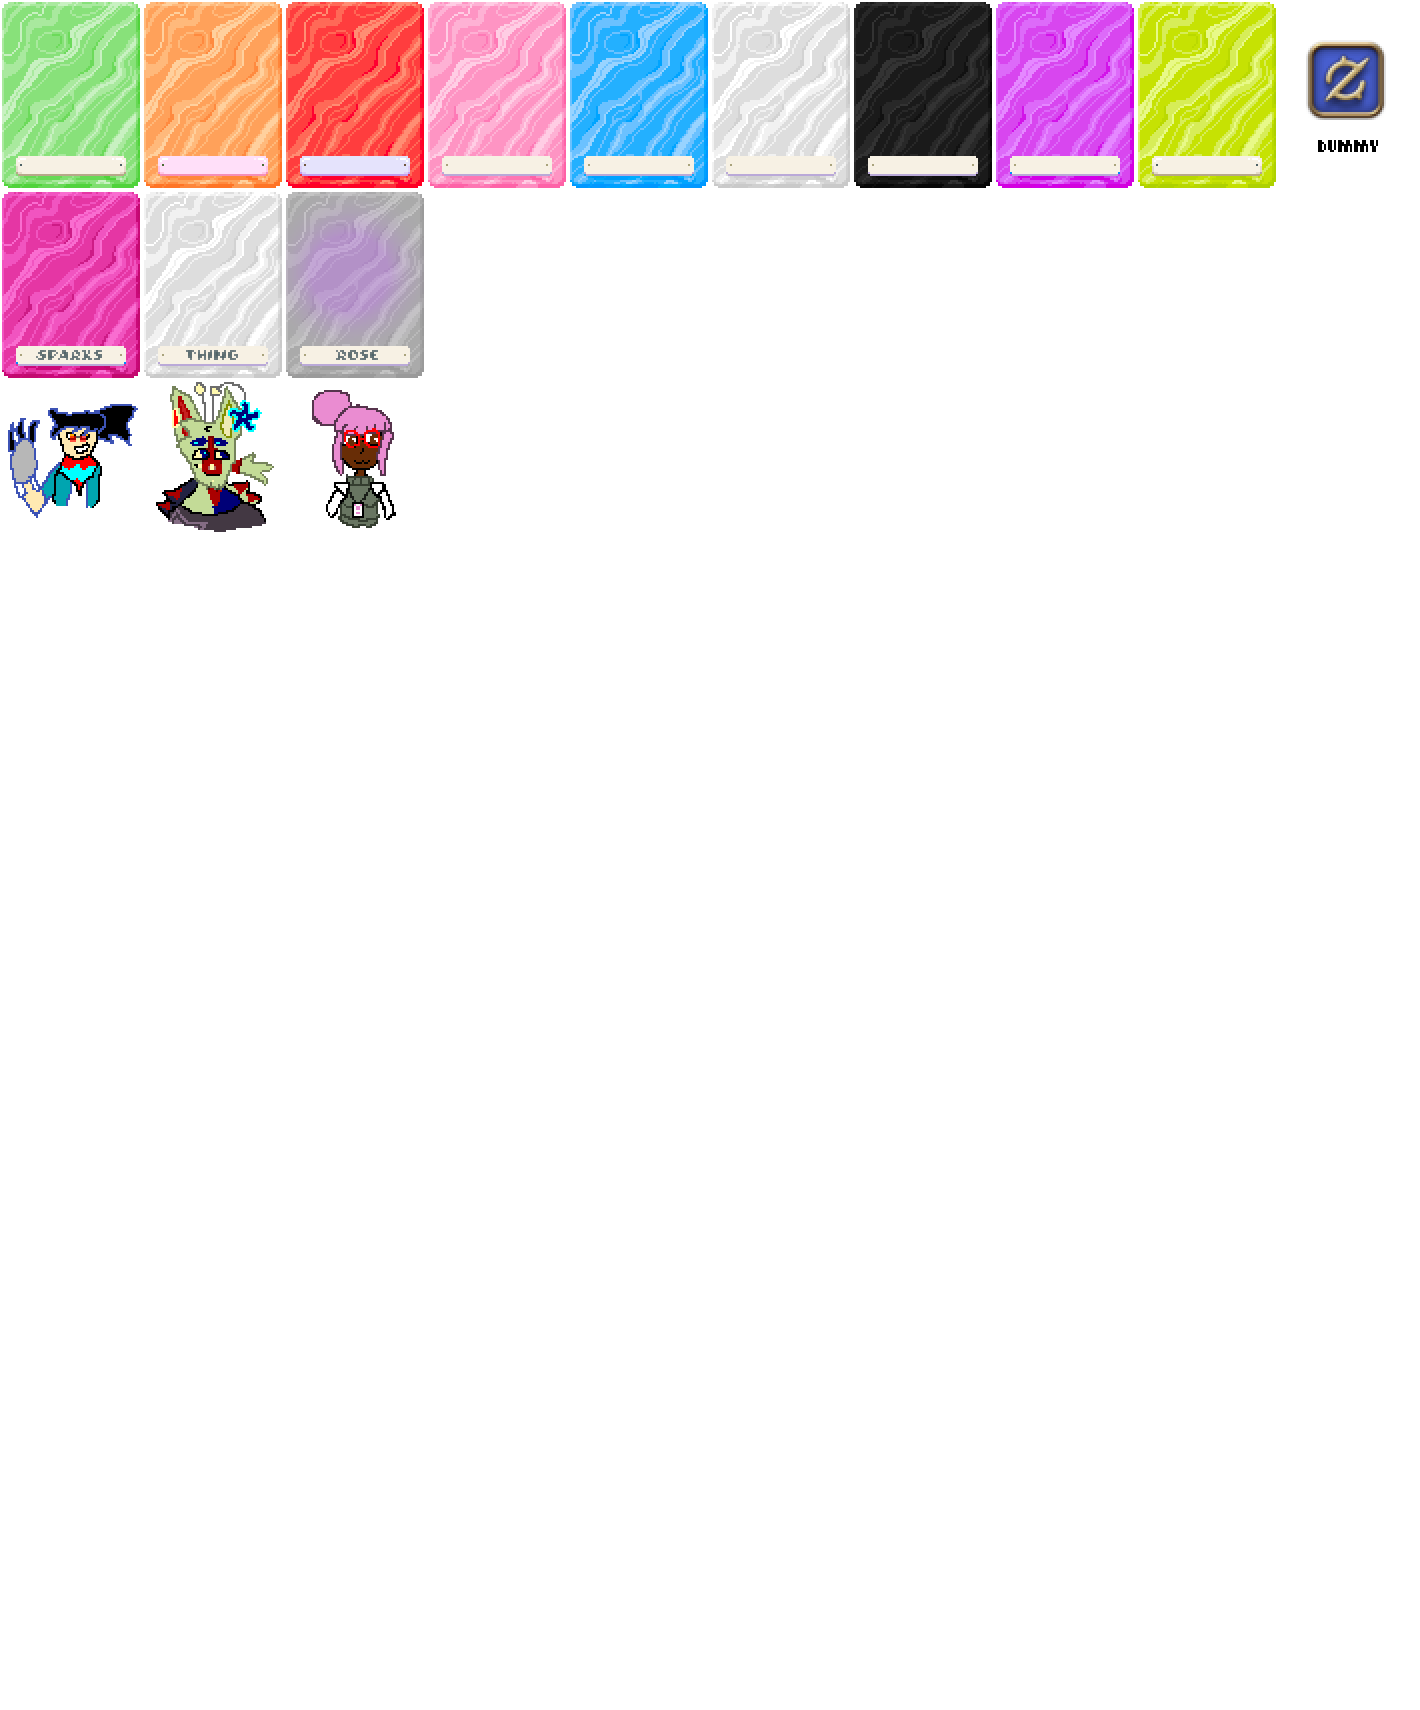
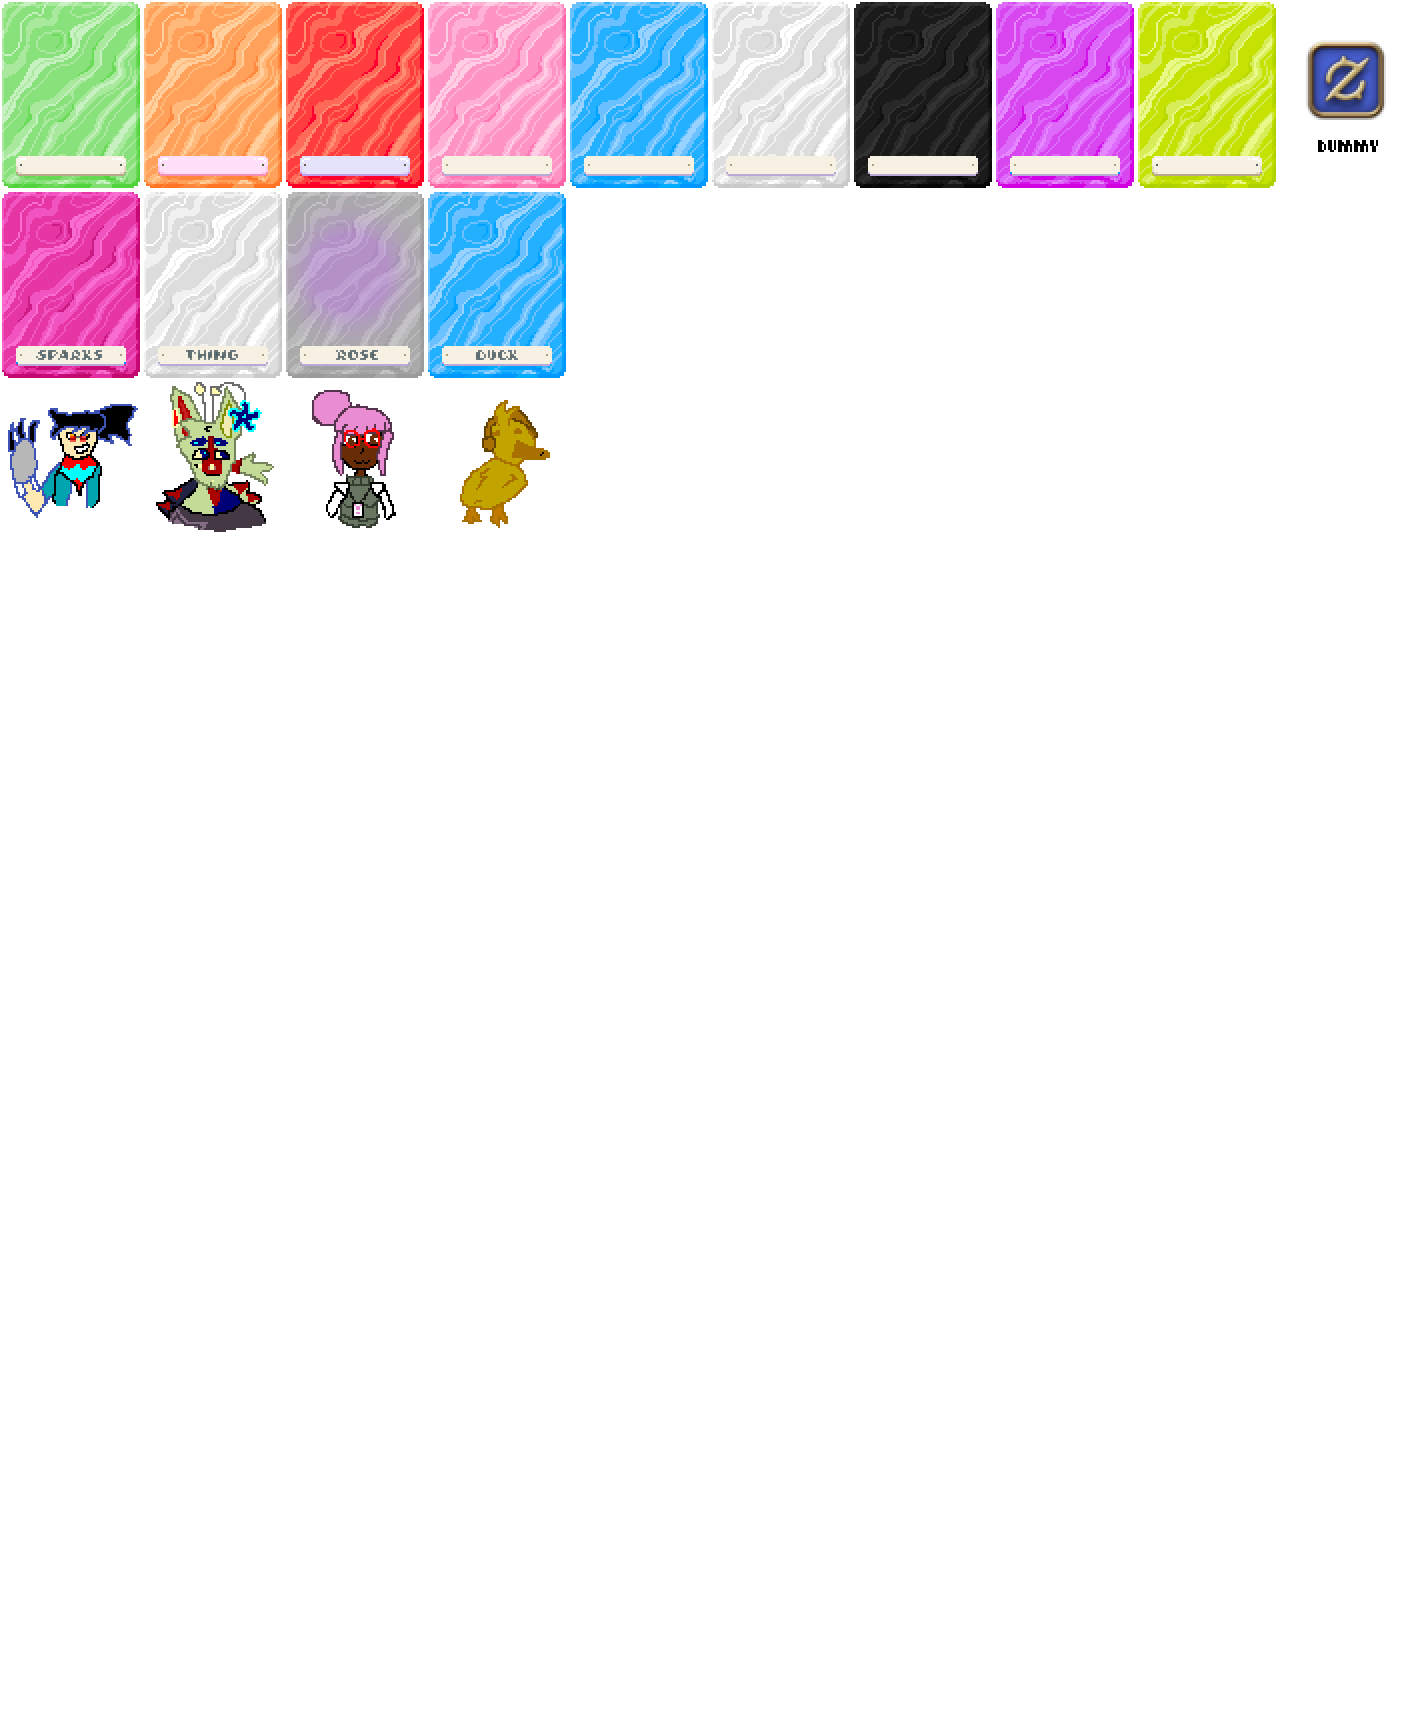
four

Changed region(s): [[0.2789, 0.093, 0.4028, 0.3099]]

diff --git a/CREDITS.md b/CREDITS.md
@@ -1,5 +1,6 @@
 <del>also a convenient reference for me when i submit the attack, because i will definitely forget</del>
 
+- [Duck](https://artfight.net/character/9698669.rubber-ducky)
 - [Rosé](https://artfight.net/character/4731699.rose-fleur)
 - [Sparks](https://artfight.net/character/10281494.looker-sparks-sheperd)
 - [Thing](https://artfight.net/character/7492531.thing)
